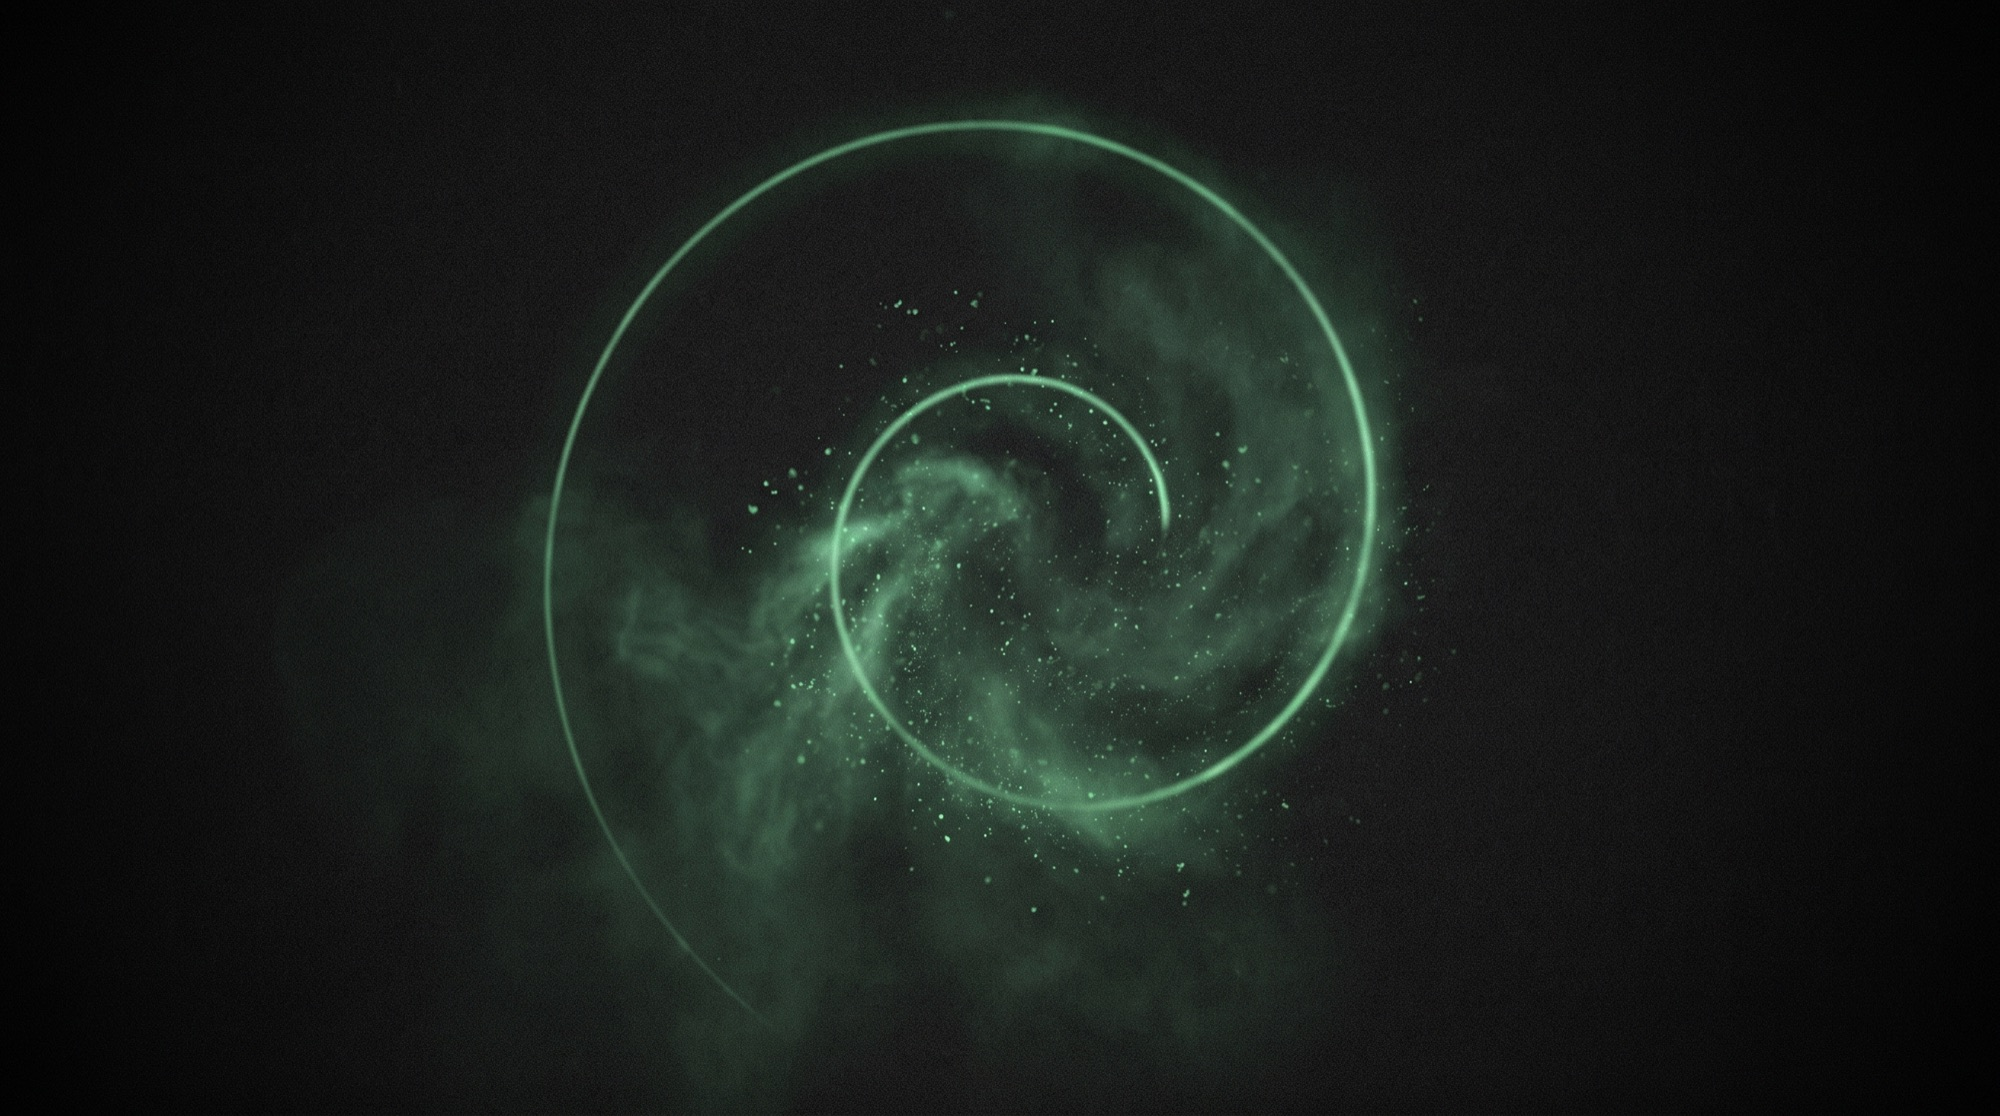
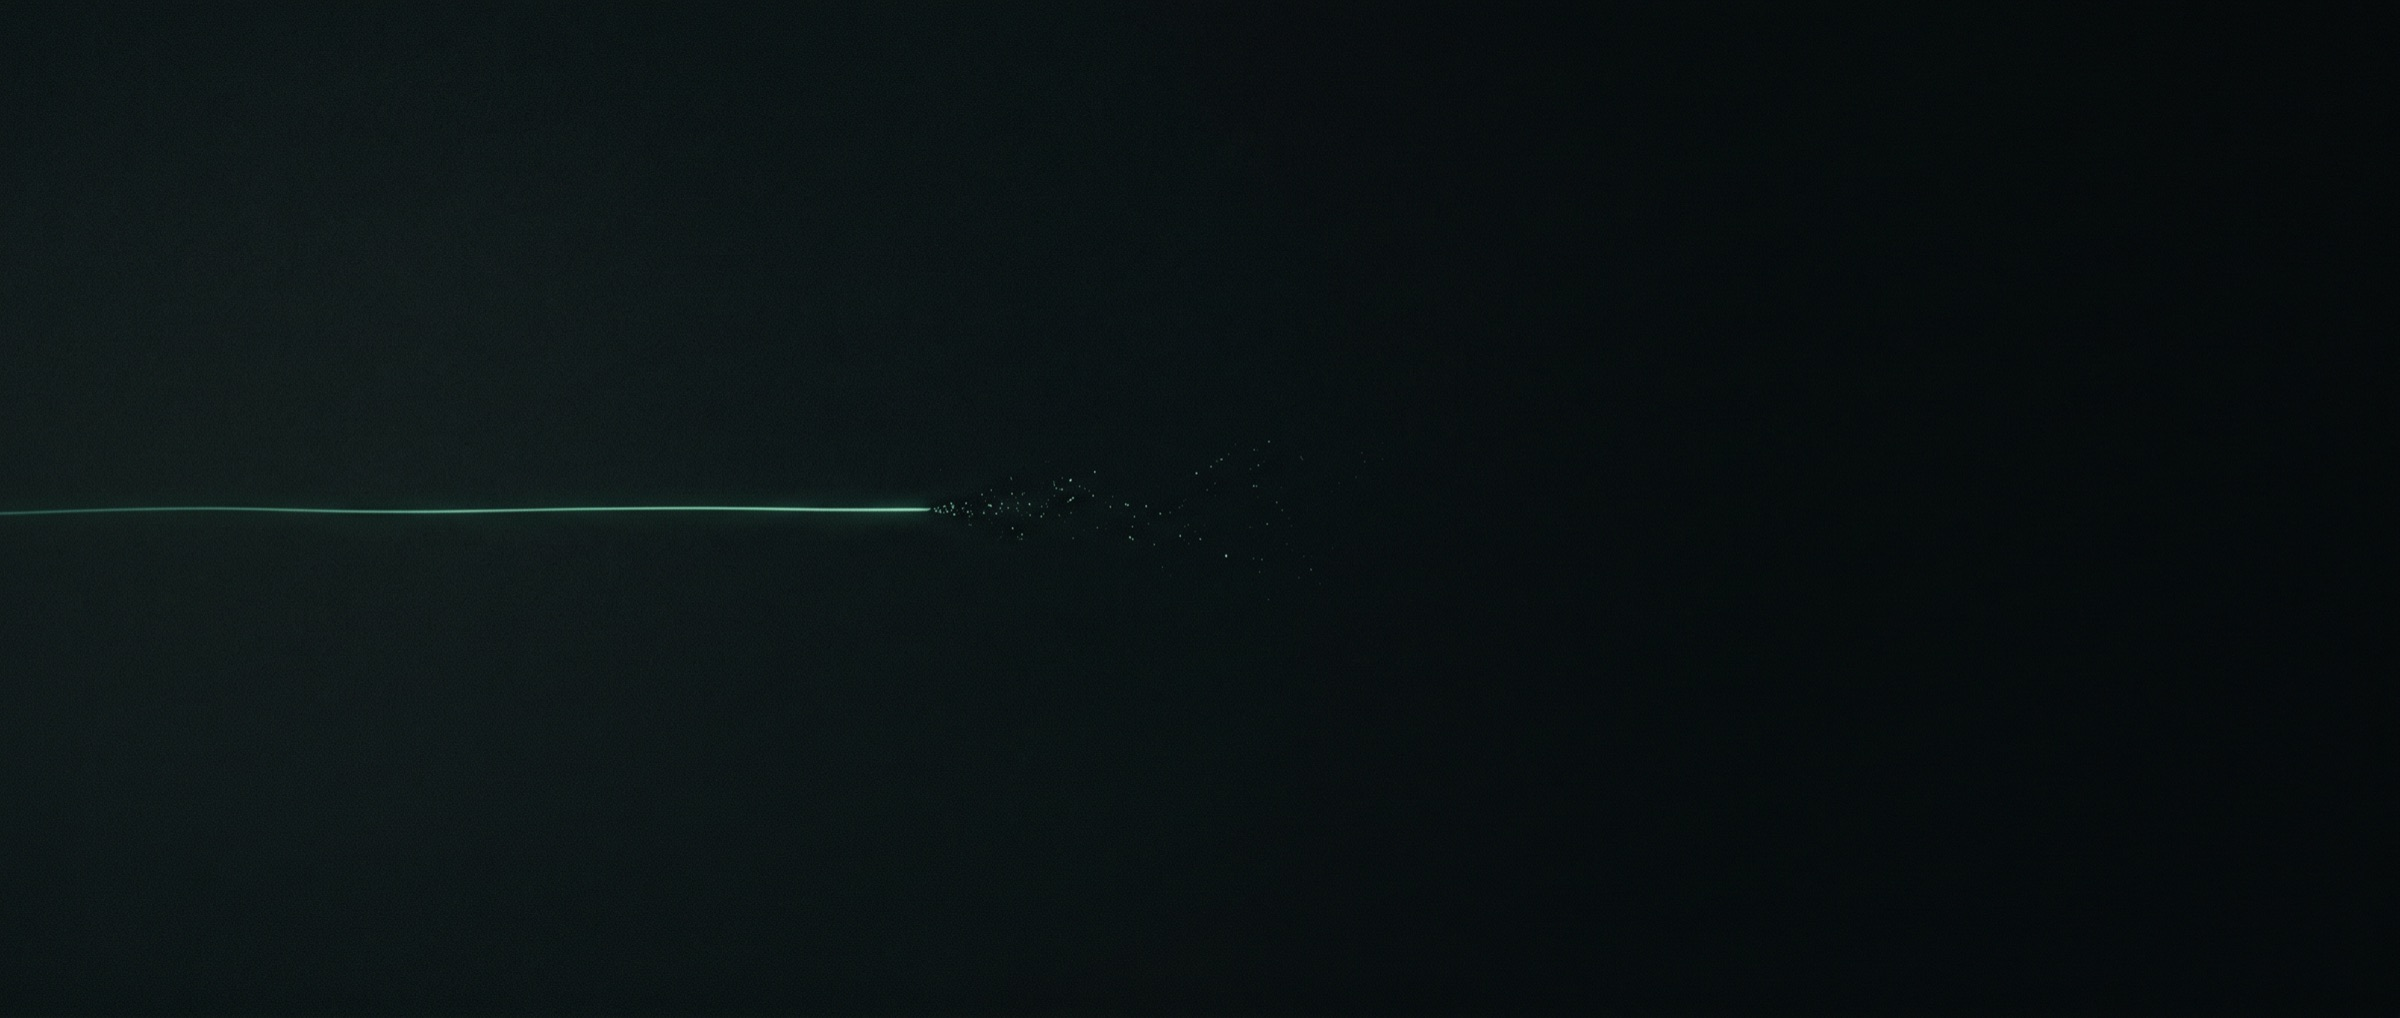
06を減量＋背景を差し替え、08の見出し短縮と表現の正確化
■ 06 UNFINISHED（A案：分量4割減）
- 見出しと同義だったリード文を削除
- 締めを1行に集約（Spiral Graphへの言及は04と重複のためカット）
- 背景を差し替え：中心配置の螺旋は07 WHYの放射構図と被るため、
  左から来た線が途中で止まり粒子に散る横長構図へ。下寄せ配置＋上から暗く落として可読性確保

■ 08 AI INTEGRATION
- 見出しを2行→1行に短縮「AIに、あなたの思考を読ませる。」
- 【表現の修正】「全部を読んだうえで」→「それらを横断して」。
  システムプロンプトに載るのは直近10件までで、11件以上束ねた場合は全件ではないため

Changed region(s): [[0.0, 0.0609, 0.744, 0.9745], [0.31, 0.1827, 0.372, 0.3045], [0.372, 0.1523, 0.403, 0.1827]]

diff --git a/index.html b/index.html
@@ -471,20 +471,18 @@
 
   <!-- 06 UNFINISHED -->
   <section id="unfinished" data-screen-label="06 UNFINISHED" style="position:relative;padding:clamp(90px,14vh,176px) clamp(20px,5vw,64px);background:radial-gradient(85% 60% at 50% 30%, #0d1510 0%, #070908 65%);overflow:hidden;text-align:center">
-    <div data-parallax="0.04" data-parallax-scale="1.08" aria-hidden="true" style="position:absolute;inset:-4%;background-image:url('assets/bg-unfinished.jpg');background-size:cover;background-position:center;opacity:.5"></div>
-    <div style="position:absolute;inset:0;background:radial-gradient(70% 55% at 50% 45%, rgba(7,9,8,.35) 0%, rgba(7,9,8,.82) 70%, #070908 100%);pointer-events:none"></div>
+    <div data-parallax="0.05" data-parallax-scale="1.08" aria-hidden="true" style="position:absolute;inset:-4%;background-image:url('assets/bg-unfinished.jpg');background-size:cover;background-position:center 78%;opacity:.85"></div>
+    <div style="position:absolute;inset:0;background:linear-gradient(180deg, #070908 0%, rgba(7,9,8,.72) 40%, rgba(7,9,8,.35) 78%, rgba(7,9,8,.9) 100%);pointer-events:none"></div>
     <div style="position:relative;max-width:860px;margin:0 auto">
       <div data-reveal style="display:inline-flex;align-items:center;gap:12px;margin-bottom:26px"><span style="width:30px;height:1px;background:#50c878"></span><span style="font-family:'DM Mono',monospace;font-size:12px;letter-spacing:3px;color:#50c878">06 — UNFINISHED</span></div>
-      <h2 data-reveal data-delay="60" style="font-size:clamp(28px,4.4vw,52px);font-weight:900;line-height:1.3;letter-spacing:-.01em;margin:0 0 clamp(20px,2.8vh,28px)">完成しなかったログにも、<br class="lp-mobile-break"><span style="color:#50c878">意味がある</span>。</h2>
-      <p data-reveal data-delay="110" style="font-size:clamp(15px,1.8vw,18px);line-height:2;color:#9aa39d;margin:0 auto clamp(38px,5vh,54px);max-width:48ch;text-wrap:pretty">思考は、いつも最後まで進むわけではありません。<br>Logは、途中で止まったものを失敗として消しません。</p>
+      <h2 data-reveal data-delay="60" style="font-size:clamp(28px,4.4vw,52px);font-weight:900;line-height:1.3;letter-spacing:-.01em;margin:0 0 clamp(34px,4.5vh,48px)">完成しなかったログにも、<br class="lp-mobile-break"><span style="color:#50c878">意味がある</span>。</h2>
       <div style="display:grid;grid-template-columns:repeat(auto-fit,minmax(210px,1fr));gap:clamp(12px,1.6vw,18px);text-align:left">
         <div data-reveal data-delay="170" style="padding:clamp(20px,3vw,30px) clamp(16px,2.4vw,26px);border:1px solid rgba(255,255,255,.08);border-radius:16px;background:rgba(255,255,255,.02)"><p style="margin:0;font-size:clamp(15px,1.9vw,18px);line-height:1.7;color:#c8d0ca;font-weight:600">採用しなかった案。</p></div>
         <div data-reveal data-delay="220" style="padding:clamp(20px,3vw,30px) clamp(16px,2.4vw,26px);border:1px solid rgba(255,255,255,.08);border-radius:16px;background:rgba(255,255,255,.02)"><p style="margin:0;font-size:clamp(15px,1.9vw,18px);line-height:1.7;color:#c8d0ca;font-weight:600">途中でやめた企画。</p></div>
         <div data-reveal data-delay="270" style="padding:clamp(20px,3vw,30px) clamp(16px,2.4vw,26px);border:1px solid rgba(255,255,255,.08);border-radius:16px;background:rgba(255,255,255,.02)"><p style="margin:0;font-size:clamp(15px,1.9vw,18px);line-height:1.7;color:#c8d0ca;font-weight:600">間違っていた予想。</p></div>
       </div>
       <div data-reveal data-delay="340" style="margin-top:clamp(40px,5.5vh,60px);padding-top:clamp(32px,4.2vh,44px);border-top:1px solid rgba(255,255,255,.08)">
-        <p style="margin:0 auto 14px;font-size:clamp(17px,2.4vw,25px);line-height:1.75;color:#e8ede9;font-weight:700;letter-spacing:-.01em;max-width:36ch;text-wrap:pretty">あのとき何を考え、なぜやめたのか。<br>その記録が、次の判断を早くする。</p>
-        <p style="margin:0 auto;font-size:clamp(13.5px,1.6vw,16px);line-height:1.9;color:#8d968f;max-width:46ch;text-wrap:pretty">Spiral Graph™が映すのは、達成した数ではありません。<br>あなたの思考が、いまどこにいるかです。</p>
+        <p style="margin:0 auto;font-size:clamp(17px,2.4vw,25px);line-height:1.75;color:#e8ede9;font-weight:700;letter-spacing:-.01em;max-width:36ch;text-wrap:pretty">あのとき何を考え、なぜやめたのか。<br>その記録が、次の判断を早くする。</p>
       </div>
     </div>
   </section>
@@ -517,8 +515,8 @@
       <div class="lp-ai-head">
         <div>
           <div data-reveal style="display:inline-flex;align-items:center;gap:12px;margin-bottom:26px"><span style="width:30px;height:1px;background:#50c878"></span><span style="font-family:'DM Mono',monospace;font-size:12px;letter-spacing:3px;color:#50c878">08 — AI INTEGRATION</span></div>
-          <h2 data-reveal data-delay="60" style="font-size:clamp(28px,4.4vw,52px);font-weight:900;line-height:1.3;margin:0 0 22px">AIに考えてもらうのではなく、<br class="lp-mobile-break">あなたの思考を<span style="color:#50c878">読ませる</span>。</h2>
-          <p data-reveal data-delay="120" style="font-size:clamp(15px,1.7vw,18px);line-height:2;color:#9aa39d;margin:0 0 20px;max-width:52ch">気になるログを束ねてプロジェクトにすると、AIはその<strong style="color:#c9d2cb;font-weight:600">全部を読んだうえで</strong>答えます。単発の質問では出てこない、考えのつながりや、止まったままの問いが見えてくる。</p>
+          <h2 data-reveal data-delay="60" style="font-size:clamp(28px,4.4vw,52px);font-weight:900;line-height:1.3;margin:0 0 22px">AIに、<span style="color:#50c878">あなたの思考</span>を読ませる。</h2>
+          <p data-reveal data-delay="120" style="font-size:clamp(15px,1.7vw,18px);line-height:2;color:#9aa39d;margin:0 0 20px;max-width:52ch">気になるログを束ねてプロジェクトにすると、AIは<strong style="color:#c9d2cb;font-weight:600">それらを横断して</strong>答えます。単発の質問では出てこない、考えのつながりや、止まったままの問いが見えてくる。</p>
           <p data-reveal data-delay="160" style="font-size:clamp(13.5px,1.5vw,15px);line-height:1.9;color:#7d857f;margin:0;max-width:52ch">APIキーは自分のものを使うから、Logの月額課金は不要。送るのは、あなたが束ねたログだけです。</p>
         </div>
         <div data-reveal data-delay="160" class="lp-ai-phone" aria-hidden="true"><div style="background-image:url('assets/screen2-ai.png')"></div></div>
@@ -528,7 +526,7 @@
         <span style="color:#50c878;font-size:14px">→</span>
         <span style="font-size:clamp(13px,1.5vw,15px);color:#c9d2cb;font-weight:600">プロジェクトに束ねる</span>
         <span style="color:#50c878;font-size:14px">→</span>
-        <span style="font-size:clamp(13px,1.5vw,15px);color:#50c878;font-weight:700">AIが全部を読んで答える</span>
+        <span style="font-size:clamp(13px,1.5vw,15px);color:#50c878;font-weight:700">AIが横断して答える</span>
       </div>
       <div style="display:grid;grid-template-columns:repeat(auto-fit,minmax(220px,1fr));gap:clamp(14px,1.6vw,20px)">
         <div data-reveal style="padding:34px 28px;border:1px solid rgba(255,255,255,.12);border-radius:18px;background:rgba(255,255,255,.05);transition:border-color .3s">
